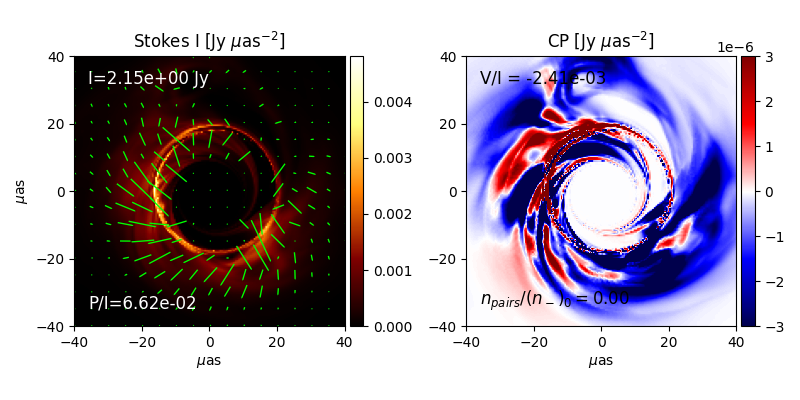
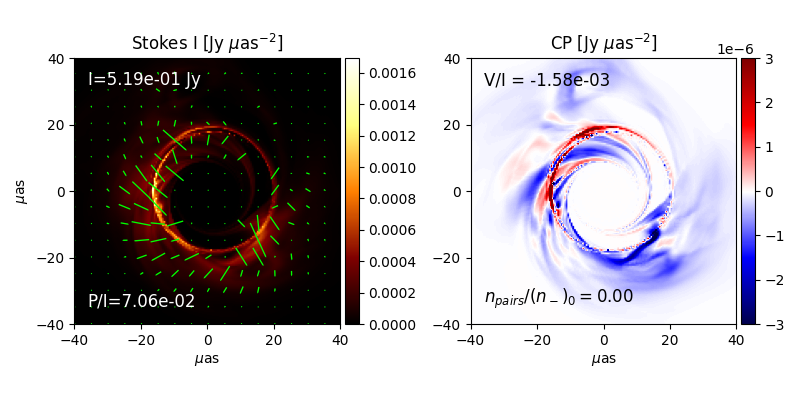
changed flux parsing so be more robust so the code always takes the last printed flux line instead of the first. bracket validation and adaptive expansion logic to check if flux is above or below and expands the bracket until target is enclosed

diff --git a/aricarte/aricarte-copy/aricarte/PositronIPOLEScripts/auto_munit_finder.py b/aricarte/aricarte-copy/aricarte/PositronIPOLEScripts/auto_munit_finder.py
@@ -1,3 +1,4 @@
+#!/usr/bin/env python3
 import sys, io, os, re, argparse, subprocess, math
 import numpy as np, pandas as pd
 from ipole_many_models import runIPOLE
@@ -38,16 +39,21 @@ def _run_ipole_once(simFile, nameBase, MunitUsed, fpos, ipole, inclination, Rhig
         stdout=subprocess.PIPE, stderr=subprocess.PIPE, universal_newlines=True
     )
     text = result.stdout + "\n" + result.stderr
-    m = re.search(r'I,Q,U,V \[Jy\]:\s+([\d.\-eE]+)', text)
+
+    # 1) prefer the explicit total flux line
+    m = re.findall(r'Ftot:\s*([+\-]?\d+(?:\.\d+)?(?:[eE][+\-]?\d+)?)\s*Jy', text)
     if m:
-        flux = float(m.group(1))
-        print(f"bisect: parsed flux={flux:.6g} Jy (old format)", flush=True)
+        flux = float(m[-1])  # take the last occurrence
+        print(f"bisect: parsed flux={flux:.6g} Jy (Ftot)", flush=True)
         return flux
-    m = re.search(r'Ftot:\s+([\d.\-eE]+)\s+Jy', text)
+
+    # 2) fallback: parse the last "I,Q,U,V [Jy]:" occurrence and take I
+    m = re.findall(r'I,Q,U,V\s*\[Jy\]\s*:\s*([+\-]?\d+(?:\.\d+)?(?:[eE][+\-]?\d+)?)', text)
     if m:
-        flux = float(m.group(1))
-        print(f"bisect: parsed flux={flux:.6g} Jy (Ftot format)", flush=True)
+        flux = float(m[-1])  # take the last occurrence
+        print(f"bisect: parsed flux={flux:.6g} Jy (I from IQUV)", flush=True)
         return flux
+
     print("bisect: WARN could not parse flux; raw output follows\n" + text, flush=True)
     return None
 
@@ -107,8 +113,36 @@ def _bracket_and_bisect_to_flux(simFile, nameBase, fpos, target_flux, init_Munit
                 break
             M, F = M_dn, F_dn
 
+    # ---- after establishing (lo_M, lo_F) and (hi_M, hi_F) ----
+    # ensure the bracket contains the target: (lo_F - T)*(hi_F - T) <= 0
+    T = target_flux
     if lo_M is None or hi_M is None:
         print("bisect: FAIL — could not bracket target flux.", flush=True)
+        return None, None
+
+    # try to fix a bad bracket (both below or both above target)
+    tries = 0
+    while (lo_F - T) * (hi_F - T) > 0 and tries < 8:
+        if lo_F < T and hi_F < T:
+            # both too faint -> expand upward
+            hi_M *= 10.0
+            hi_F = _run_ipole_once(simFile, nameBase, hi_M, fpos, ipole, inclination, Rhigh,
+                                   freq_Hz, fov, npixel, counterjet, rmax_geo,
+                                   electronModel, sigma_transition, sigma_cut)
+            print(f"bisect: expanding up: hi_M={hi_M:.3e}, hi_F={hi_F:.3g}", flush=True)
+        elif lo_F > T and hi_F > T:
+            # both too bright -> expand downward
+            lo_M /= 10.0
+            if lo_M <= 0:
+                break
+            lo_F = _run_ipole_once(simFile, nameBase, lo_M, fpos, ipole, inclination, Rhigh,
+                                   freq_Hz, fov, npixel, counterjet, rmax_geo,
+                                   electronModel, sigma_transition, sigma_cut)
+            print(f"bisect: expanding down: lo_M={lo_M:.3e}, lo_F={lo_F:.3g}", flush=True)
+        tries += 1
+
+    if (lo_F - T) * (hi_F - T) > 0:
+        print("bisect: FAIL — target not bracketed after expansion.", flush=True)
         return None, None
 
     # auto expand bracket if too faint
@@ -126,7 +160,7 @@ def _bracket_and_bisect_to_flux(simFile, nameBase, fpos, target_flux, init_Munit
             print(f"bisect: FAIL — flux never reached target even at hi_M={hi_M:.2e}", flush=True)
             return None, None
 
-    # Bisection phase
+    # bisection phase
     for _ in range(max_bisect_steps):
         mid_M = math.sqrt(lo_M * hi_M)
         mid_F = _run_ipole_once(simFile, nameBase, mid_M, fpos, ipole, inclination, Rhigh,
@@ -165,11 +199,11 @@ def makePositronImages(
     init1 = MunitOffset_guess + MunitSlope_guess*Munit/denom1
     print(f"bisect: anchors fpos0={init0:.3e}, fpos1={init1:.3e}", flush=True)
 
-    M0_star, F0_star = _bracket_and_bisect_to_flux(
+    M0_star, _ = _bracket_and_bisect_to_flux(
         simFile, nameBase, 0.0, target_flux, init0, ipole, inclination,
         Rhigh, freq_Hz, fov, npixel, counterjet, rmax_geo,
         electronModel, sigma_transition, sigma_cut, use_relative_tol=True)
-    M1_star, F1_star = _bracket_and_bisect_to_flux(
+    M1_star, _ = _bracket_and_bisect_to_flux(
         simFile, nameBase, 1.0, target_flux, init1, ipole, inclination,
         Rhigh, freq_Hz, fov, npixel, counterjet, rmax_geo,
         electronModel, sigma_transition, sigma_cut, use_relative_tol=True)
@@ -256,6 +290,7 @@ def makePositronImages(
     print(f"saved converged parameters after {iterations} iterations for row {row}", flush=True)
 
 
+# main entry point
 if __name__ == '__main__':
     parser = argparse.ArgumentParser(description='Run ipole positron optimization')
     parser.add_argument('--start_row', '-start_row', type=int, default=None)
@@ -289,3 +324,4 @@ if __name__ == '__main__':
                        nameBase=nameBase, Rhigh=Rhigh, electronModel=electronModel,
                        sigma_cut=sigma_cut, sigma_transition=2.0, row=start_row,
                        ipole='/work/vmo703/aricarte/run_ipole.sh')
+    

diff --git a/sgrA/auto_munit_finder_sgrA.py b/sgrA/auto_munit_finder_sgrA.py
@@ -2,10 +2,10 @@
 """
 auto_munit_finder_sgrA.py
 -------------------------
-Automatically tunes Munit scaling so IPOLE runs produce the target flux (~2.4 Jy)
+automatically tunes Munit scaling so IPOLE runs produce the target flux (~2.4 Jy)
 for Sgr A* models, given a GRMHD dump and electron-heating prescription.
 
-Outputs a CSV with:
+outputs a CSV with:
 dump_index,timestep,MAD/SANE,model,spin,pos,MunitOffset,MunitSlope,Munit,MunitUsed,notes
 """
 
@@ -26,7 +26,7 @@ except AttributeError:
 def _run_ipole_once(simFile, nameBase, MunitUsed, fpos, ipole, inclination,
                     Rhigh, freq_Hz, fov, npixel, counterjet, rmax_geo,
                     electronModel, sigma_transition, sigma_cut, retries=1):
-    """Run IPOLE once and parse flux (Jy) from stdout, retrying if parsing fails."""
+    """run IPOLE once and parse flux (Jy) from stdout, retrying if parsing fails."""
     for attempt in range(retries + 1):
         print(f"[bisect] runIPOLE(sim={simFile}, MunitUsed={MunitUsed:.3e}, fpos={fpos}) (try {attempt+1}/{retries+1})", flush=True)
         result = subprocess.run(
@@ -141,8 +141,8 @@ def makeMunitForSgrA(simFile, dump_index, timestep, evolution, model, spin,
                      ipole="/work/vmo703/aricarte/run_ipole.sh", fov=160.0,
                      npixel=320, counterjet=0, rmax_geo=50, electronModel=2,
                      sigma_transition=2.0, sigma_cut=2.0, row=0):
-    """Run Munit calibration for one simulation row."""
-    print(f"[ROWSTART] row={row} simFile={simFile}", flush=True)
+    """run Munit calibration for one simulation row."""
+    print(f"[row start] row={row} simFile={simFile}", flush=True)
     target_flux = 2.4  # Jy
     fpos = 0.0         # no positrons for Sgr A*
 
